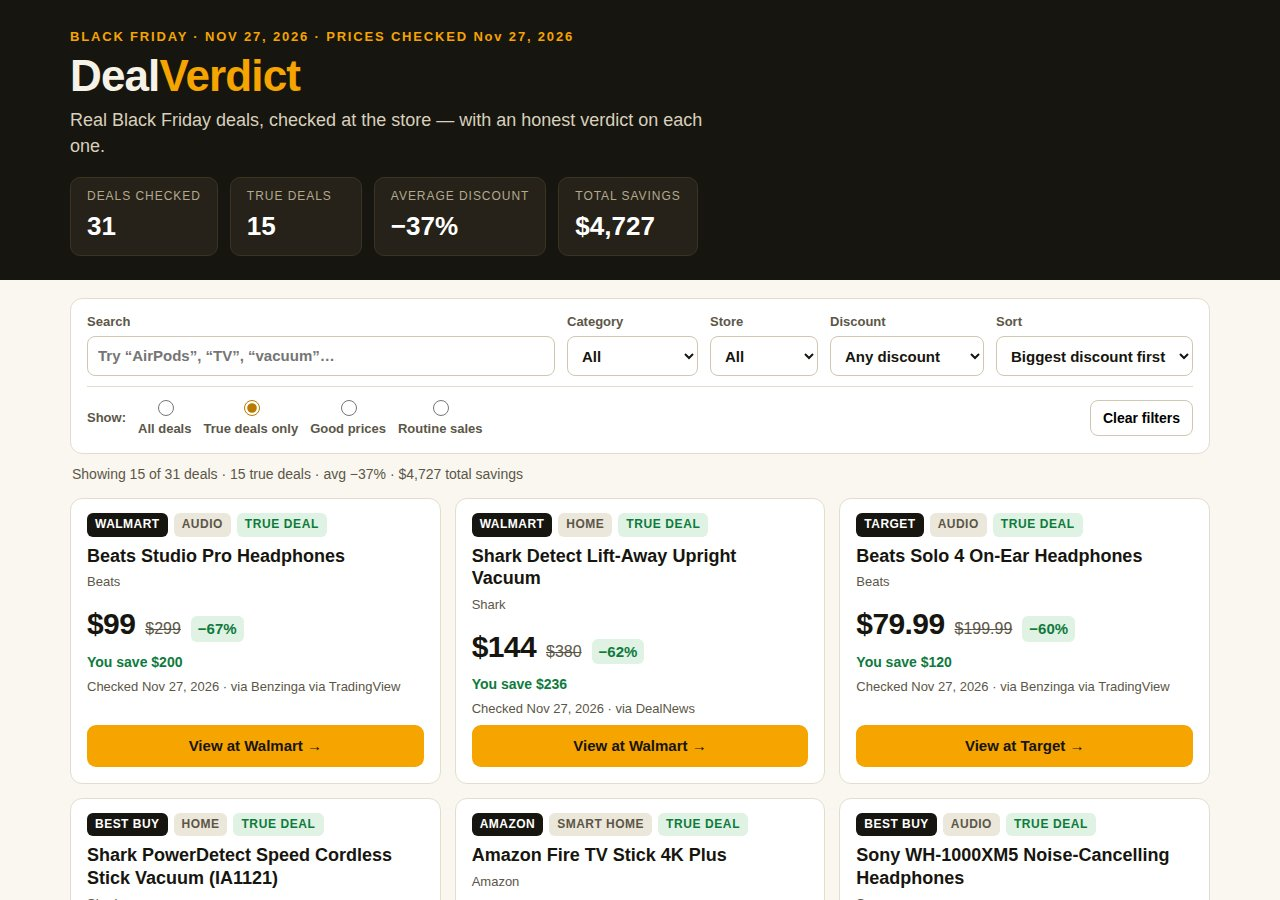
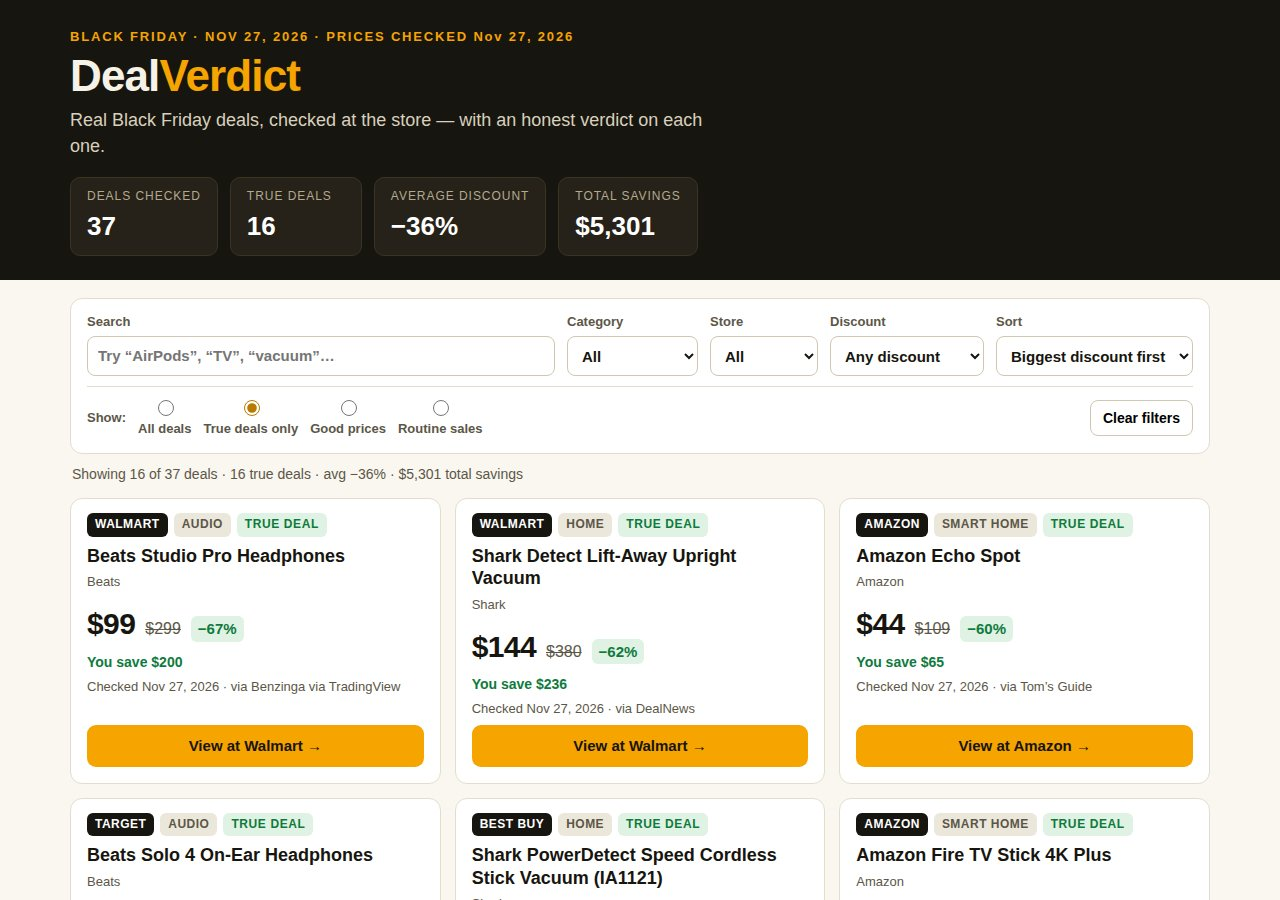
Add 6 more verified deals (37 total): Echo Spot, Kindle Colorsoft, iPad mini, Studio Display, AirTag 4-pack, Pixel Buds Pro 2; rename Laptops to Computers

diff --git a/app/data.js b/app/data.js
@@ -15,7 +15,7 @@ export const CHECKED_DAY = 'Nov 27, 2026';
 export const CATEGORIES = [
   'Audio',
   'Wearables',
-  'Laptops',
+  'Computers',
   'TVs',
   'Gaming',
   'Smart Home',
@@ -110,7 +110,7 @@ export const DEALS = [
     id: 'macbook-air-m5',
     name: 'Apple MacBook Air 13-inch (M5, 16GB / 512GB)',
     brand: 'Apple',
-    category: 'Laptops',
+    category: 'Computers',
     store: 'Amazon',
     price: 989,
     was: 1299,
@@ -127,7 +127,7 @@ export const DEALS = [
     id: 'hp-omnibook-5',
     name: 'HP OmniBook 5 14-inch 2K OLED Touch Laptop',
     brand: 'HP',
-    category: 'Laptops',
+    category: 'Computers',
     store: 'Best Buy',
     price: 449.99,
     was: 799.99,
@@ -564,6 +564,108 @@ export const DEALS = [
     evidence: '$250 off through Nov 30 at Costco: $849.99 for the Arc Ultra soundbar bundle, against $1,099.99.',
     alsoAt: [],
     note: 'Costco’s Black Friday runs Nov 27–30. Membership required to buy.',
+  },
+  {
+    id: 'echo-spot',
+    name: 'Amazon Echo Spot',
+    brand: 'Amazon',
+    category: 'Smart Home',
+    store: 'Amazon',
+    price: 44,
+    was: 109,
+    link: 'https://www.amazon.com/s?k=Amazon+Echo+Spot',
+    checked: 'Nov 27, 2026',
+    source: 'Tom’s Guide',
+    sourceUrl: 'https://techresearchonline.com/news/black-friday-sales-amazon-walmart-best-buy-target/',
+    verdict: 'true',
+    evidence: '60% off Amazon’s own smart alarm clock with Alexa: $44, down from $109, in Amazon’s Black Friday Week sale.',
+    alsoAt: [],
+    note: 'The cheapest Alexa with a display in this Black Friday’s verified deals.',
+  },
+  {
+    id: 'kindle-colorsoft',
+    name: 'Amazon Kindle Colorsoft',
+    brand: 'Amazon',
+    category: 'Smart Home',
+    store: 'Amazon',
+    price: 169,
+    was: 289,
+    link: 'https://www.amazon.com/s?k=Kindle+Colorsoft',
+    checked: 'Nov 27, 2026',
+    source: 'Tom’s Guide',
+    sourceUrl: 'https://techresearchonline.com/news/black-friday-sales-amazon-walmart-best-buy-target/',
+    verdict: 'good',
+    evidence: '$120 off the color Kindle: $169 against $289 during Amazon Black Friday Week.',
+    alsoAt: [],
+    note: 'Color e-ink for comics and cookbooks, at its lowest tracked price.',
+  },
+  {
+    id: 'ipad-mini-a20',
+    name: 'iPad mini (A20 Pro, OLED) 128GB',
+    brand: 'Apple',
+    category: 'Computers',
+    store: 'Amazon',
+    price: 599,
+    was: 699,
+    link: 'https://www.amazon.com/s?k=iPad+mini+A20+Pro+OLED',
+    checked: 'Nov 27, 2026',
+    source: '9to5Toys',
+    sourceUrl: 'https://beebulletin.com/black-friday-sale-dates-by-store/',
+    verdict: 'good',
+    evidence: '$100 off the brand-new OLED iPad mini: $599 against $699 for the 128GB model. The 256GB is $781 (was $799) and the 512GB $970 (was $999).',
+    alsoAt: [],
+    note: 'A $100 cut on a just-launched model — rare for Apple hardware.',
+  },
+  {
+    id: 'apple-studio-display',
+    name: 'Apple Studio Display (Standard Glass)',
+    brand: 'Apple',
+    category: 'Computers',
+    store: 'Amazon',
+    price: 1399,
+    was: 1599,
+    link: 'https://www.amazon.com/s?k=Apple+Studio+Display',
+    checked: 'Nov 27, 2026',
+    source: '9to5Mac / AppleInsider',
+    sourceUrl: 'https://appleinsider.com/articles/26/11/27/best-black-friday-apple-deals-deliver-up-to-800-off-macs-ipads-airpods-watch',
+    verdict: 'good',
+    evidence: '$200 off Apple’s 27-inch 5K display: $1,399 against $1,599, the best tracked price for Black Friday Week.',
+    alsoAt: [],
+    note: 'Pair it with the $989 MacBook Air above for a full desk setup.',
+  },
+  {
+    id: 'airtag-2-4pack',
+    name: 'Apple AirTag 2 (4-pack)',
+    brand: 'Apple',
+    category: 'Wearables',
+    store: 'Amazon',
+    price: 70,
+    was: 99,
+    link: 'https://www.amazon.com/s?k=AirTag+2+4-pack',
+    checked: 'Nov 27, 2026',
+    source: '9to5Mac',
+    sourceUrl: 'https://9to5mac.com/2026/11/14/early-black-friday-apple-deals-apple-tv-4k-airpods/',
+    verdict: 'good',
+    evidence: '$29 off the 4-pack: $70 against $99, matching its all-time low. The single AirTag 2 is $18 (was $29).',
+    alsoAt: [],
+    note: 'Four trackers for the price of two and a half singles.',
+  },
+  {
+    id: 'pixel-buds-pro-2',
+    name: 'Google Pixel Buds Pro 2',
+    brand: 'Google',
+    category: 'Audio',
+    store: 'Amazon',
+    price: 169,
+    was: 229,
+    link: 'https://www.amazon.com/s?k=Google+Pixel+Buds+Pro+2',
+    checked: 'Nov 27, 2026',
+    source: 'Product Bible',
+    sourceUrl: 'https://productbible.com/blog/pixel-buds-pro-2-vs-airpods-pro-3',
+    verdict: 'good',
+    evidence: '$60 off: $169 at Amazon, matching the Google Store’s Black Friday price, against a $229 list price. Both run 8 hours per charge with noise cancelling on.',
+    alsoAt: [{ store: 'Google Store', price: 169 }],
+    note: 'The Android answer to AirPods Pro 3 — $20 more than the Pro 3’s $149, for Android owners.',
   },
 ];
 
